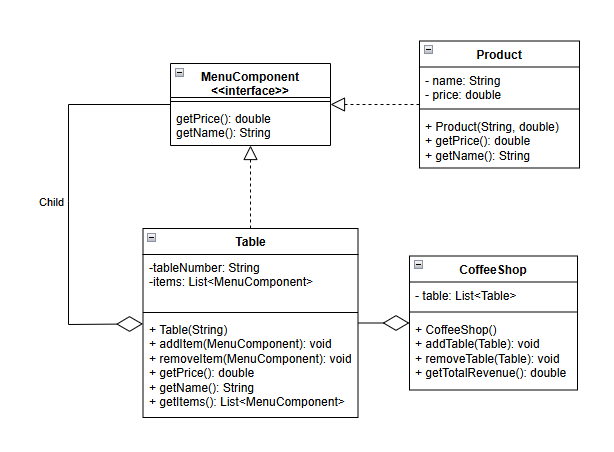
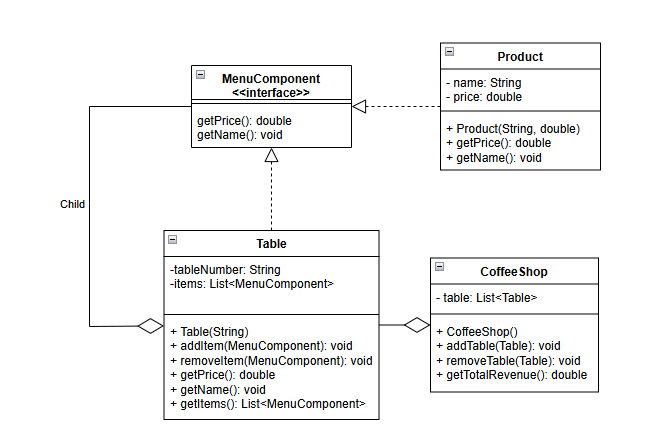
change getName() method

Changed region(s): [[0.0619, 0.119, 0.9593, 0.9519], [0.6189, 0.0892, 0.9593, 0.4165]]

diff --git a/Tuan02/Bai02/src/main/java/Main.java b/Tuan02/Bai02/src/main/java/Main.java
@@ -18,7 +18,9 @@ public class Main {
         coffeeShop.addTable(table1);
         coffeeShop.addTable(table2);
 
+        table1.getName();
         System.out.println("Table 1 total: " + table1.getPrice() + " VND");
+        table2.getName();
         System.out.println("Table 2 total: " + table2.getPrice() + " VND");
         System.out.println("Total revenue: " + coffeeShop.getTotalRevenue() + " VND");
     }

diff --git a/Tuan02/Bai02/src/main/java/Table.java b/Tuan02/Bai02/src/main/java/Table.java
@@ -28,8 +28,12 @@ public class Table implements MenuComponent {
     }
 
     @Override
-    public String getName() {
-        return "Table " + tableNumber;
+    public void getName() {
+        System.out.println("Table " + tableNumber);
+        System.out.println("Order:");
+        for (MenuComponent item : items) {
+            item.getName();
+        }
     }
 
     public List<MenuComponent> getItems() {

diff --git a/Tuan02/Bai02/src/main/java/Product.java b/Tuan02/Bai02/src/main/java/Product.java
@@ -13,7 +13,7 @@ public class Product implements MenuComponent {
     }
 
     @Override
-    public String getName() {
-        return name;
+    public void getName() {
+        System.out.println(name);
     }
 }

diff --git a/Tuan02/Bai02/src/main/java/MenuComponent.java b/Tuan02/Bai02/src/main/java/MenuComponent.java
@@ -1,4 +1,4 @@
 public interface MenuComponent {
     double getPrice();
-    String getName();
+    void getName();
 }
